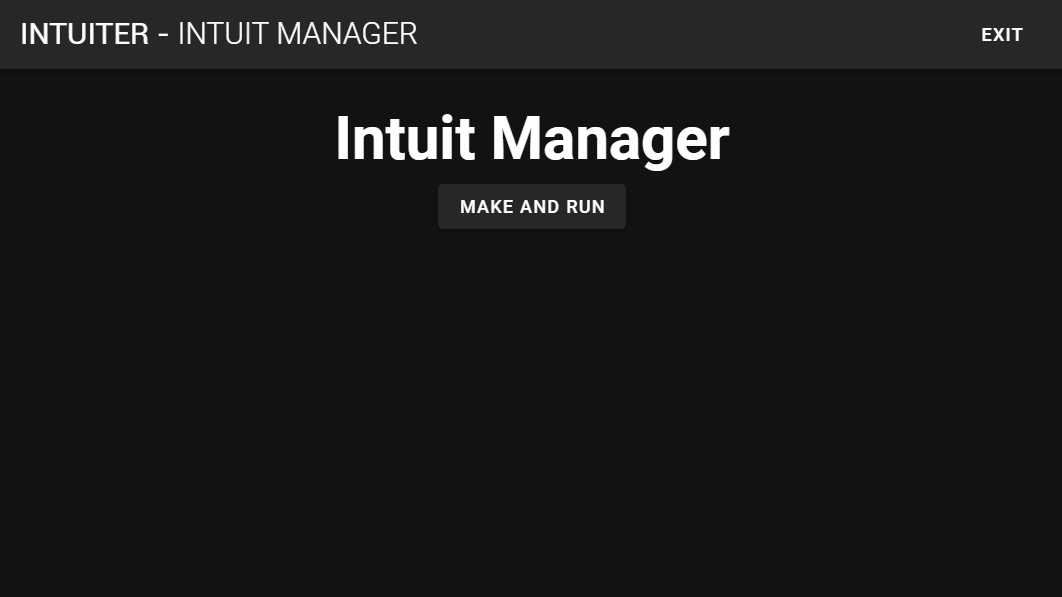
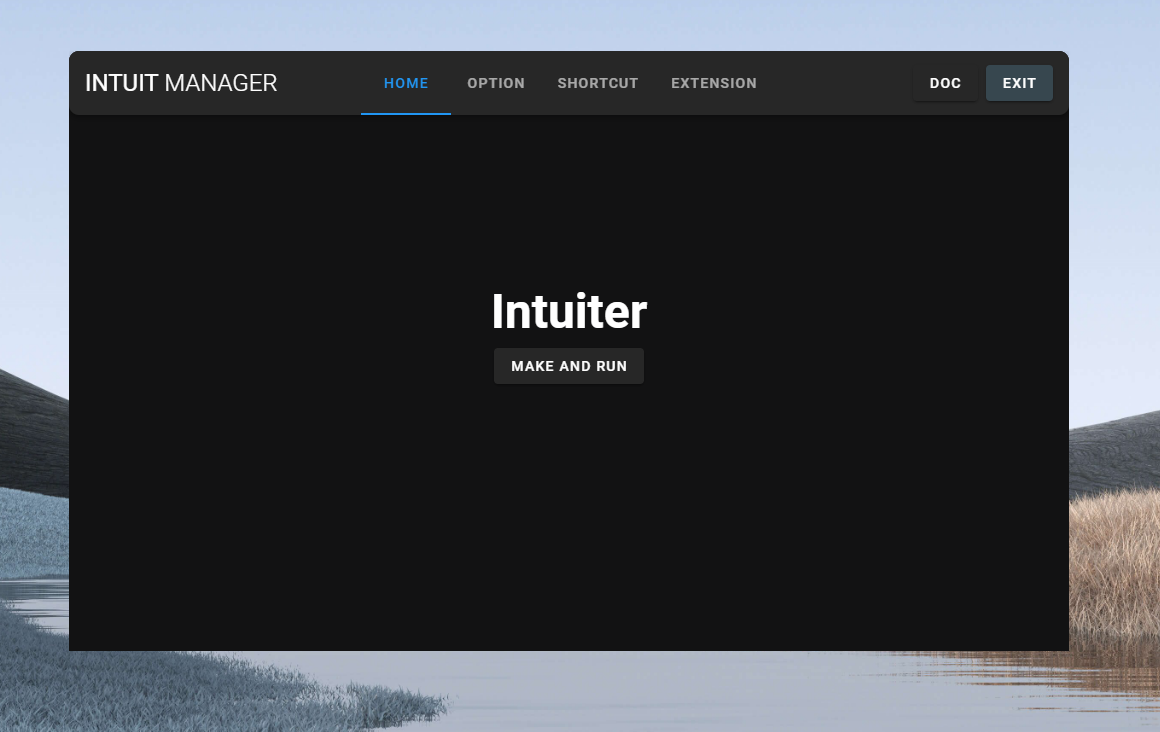
doc: Add preveiew screenshot

diff --git a/.vitepress/theme/Layout.vue b/.vitepress/theme/Layout.vue
@@ -50,7 +50,7 @@
 
 <script setup lang="ts">
 import { ref, computed, watch, defineAsyncComponent, onMounted } from 'vue'
-import { useRoute, useSiteData, useSiteDataByRoute, useRouter } from 'vitepress'
+import { useRoute, useSiteData, useSiteDataByRoute } from 'vitepress'
 import type { DefaultTheme } from './config'
 
 // components
@@ -61,14 +61,9 @@ const Home = defineAsyncComponent(() => import('./components/Home.vue'))
 
 // generic state
 const route = useRoute()
-const router = useRouter()
 const siteData = useSiteData<DefaultTheme.Config>()
-const siteRouteData = useSiteDataByRoute()
 const theme = computed(() => siteData.value.themeConfig)
-
-onMounted(() => {
-  for (const path in theme.value.locales) if (theme.value.locales[path].lang === navigator.language) router.go(path)
-})
+const siteRouteData = useSiteDataByRoute()
 
 const AlgoliaSearchBox = defineAsyncComponent(() => import('./components/AlgoliaSearchBox.vue'))
 

diff --git a/.vitepress/theme/components/Home.vue b/.vitepress/theme/components/Home.vue
@@ -13,6 +13,15 @@
 import HomeHero from './HomeHero.vue'
 import HomeFeatures from './HomeFeatures.vue'
 import HomeFooter from './HomeFooter.vue'
+import { useRouter, useSiteData } from 'vitepress'
+import { onMounted, computed } from 'vue'
+
+const router = useRouter()
+const siteData = useSiteData<DefaultTheme.Config>()
+const theme = computed(() => siteData.value.themeConfig)
+onMounted(() => {
+  for (const path in theme.value.locales) if (theme.value.locales[path].lang === navigator.language) router.go(path)
+})
 </script>
 
 <style scoped>

diff --git a/ko/docs/install.md b/ko/docs/install.md
@@ -1,14 +1,18 @@
 
-# Install
+# 설치방법
 
-## [Download](https://github.com/seonglae/intuiter/releases/latest/download/Intuiter.exe)
+## [다운로드](https://github.com/seonglae/intuiter/releases/latest/download/Intuiter.exe)
 
-- Windows Store distribution is planned
-- You can also download from release tab - but smart screen problem will happen
+- 인증서 살 돈이 없어서, 크롬 경고가 나올 수 있습니다.
+- 아래와 같이 계속을 눌러주면 됩니다
 
-## Ignore Browser Warning 
+![chrome](/screenshot/chrome.png)
+
+
+
+- 마찬가지로 설치 프로그램 실행시 스마트스크린 경고가 나올 수 있습니다
 
 
 <br/>
 
-# [Usage](./usage)
+# [사용방법](./usage)

diff --git a/ko/docs/usage.md b/ko/docs/usage.md
@@ -1,16 +1,18 @@
-# How to Use
+# 사용 방법
 
-When you run program, you will see this window
+프로그램을 실행하면, 이런 화면이 보일 겁니다
 
-<p align="center">
-<img src="/images/program.png" width="500"/>
-</p>
+<img src="/images/program.png" >
 
-Just Press **Make and Run** Button
+**Make and Run** 버튼을 클릭하면
 
-<p align="center">
-<img src="/images/tray.png" width="250"/>
-</p>
+<img src="/screenshot/complete.png" />
+
+완료되었다는 말 이후
+
+![tray](/images/tray.png)
+
+
 
 If System Icon Appear like this, the program is running
 

diff --git a/ko/docs/index.md b/ko/docs/index.md
@@ -1,10 +1,11 @@
 # Intuiter
 
-### If you **Use** PC, this program will definitely help you.
 
-**Windows global version Vim Substitute and++**
+![preview](/screenshot/button.gif)
+### 당신이 컴퓨터를 사용한다면 분명히 이 프로그램이 도움이 될 겁니다
+
 
 <br/>
 <br/>
 
-# [Install](./install)
+# [설치방법](./install)

diff --git a/ko/index.md b/ko/index.md
@@ -3,7 +3,7 @@ home: true
 heroImage: /logo.png
 actionText: 시작하기
 description: 생산성을 높여보세요
-actionLink: ./docs/
+actionLink: /ko/docs/
 
 footer: MIT Licensed | Copyright © 2021-PRESENT Seonglae Cho
 ---

diff --git a/en/docs/index.md b/en/docs/index.md
@@ -2,7 +2,8 @@
 
 ### If you **Use** PC, this program will definitely help you.
 
-**Windows global version Vim Substitute and++**
+![preview](/screenshot/button.gif)
+
 
 <br/>
 <br/>
